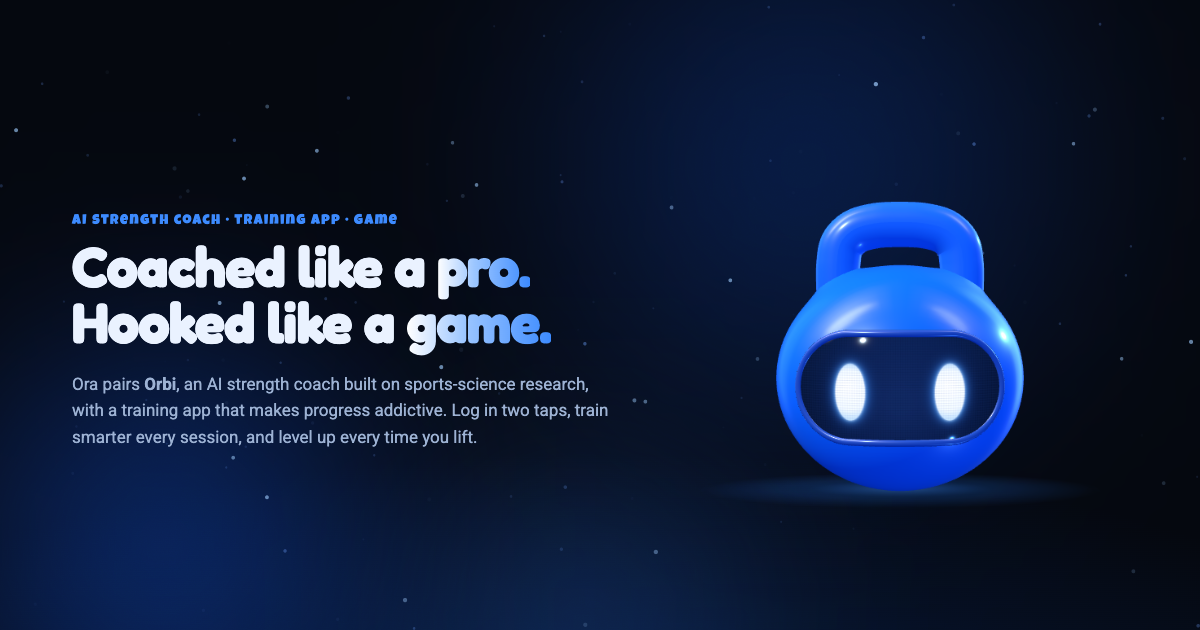
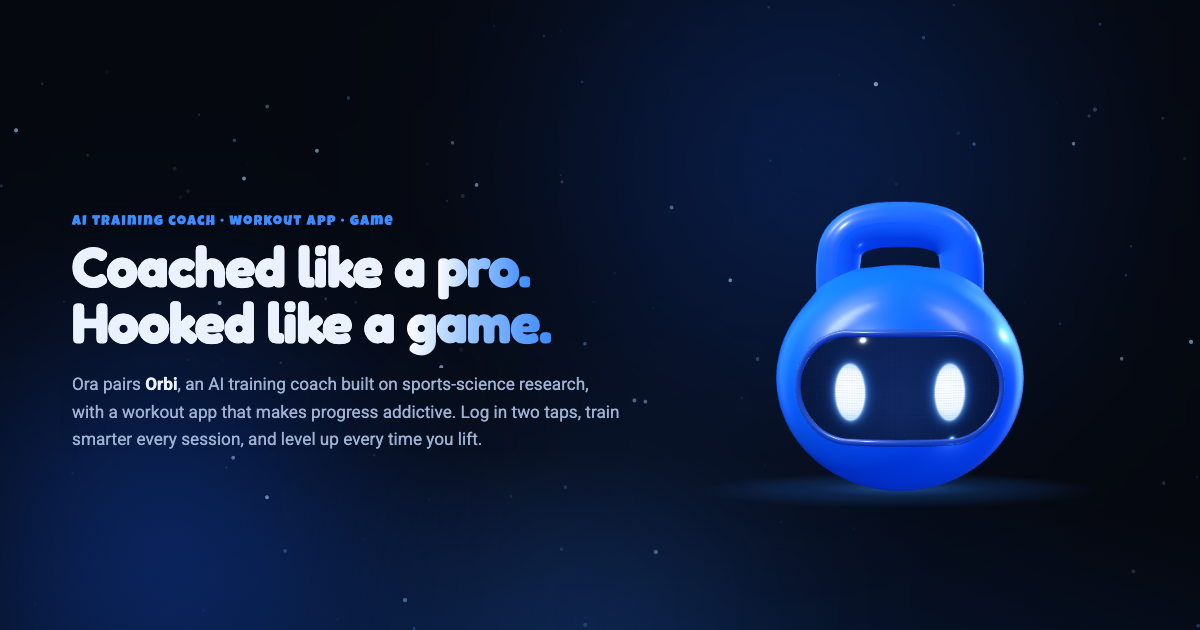
Call Orbi an AI training coach, not a strength coach (#26)
Orbi does more than strength coaching (Eric, 2026-10-30). Updates the page copy, metadata and the share image.

Changed region(s): [[0.0617, 0.6032, 0.5242, 0.7238], [0.0617, 0.3317, 0.3392, 0.3619]]

diff --git a/index.html b/index.html
@@ -1,21 +1,21 @@
 <!DOCTYPE html>
 <html lang="en"><head><meta charset="utf-8"><meta name="viewport" content="width=device-width,initial-scale=1">
 <title>Ora | Coached like a pro. Hooked like a game.</title>
-<meta name="description" content="Ora pairs Orbi, an AI strength coach built on sports-science research, with a lifting app that makes progress addictive: two-tap logging, XP, ranks, badges and friends. Free in private beta on iPhone.">
+<meta name="description" content="Ora pairs Orbi, an AI training coach built on sports-science research, with a lifting app that makes progress addictive: two-tap logging, XP, ranks, badges and friends. Free in private beta on iPhone.">
 <meta name="author" content="Ora">
 <meta name="robots" content="index, follow, max-image-preview:large">
 <link rel="canonical" href="https://oracoach.app/">
 <meta property="og:locale" content="en_US">
 <meta property="og:type" content="website">
 <meta property="og:title" content="Ora | Coached like a pro. Hooked like a game.">
-<meta property="og:description" content="Ora pairs Orbi, an AI strength coach built on sports-science research, with a lifting app that makes progress addictive: two-tap logging, XP, ranks, badges and friends. Free in private beta on iPhone.">
+<meta property="og:description" content="Ora pairs Orbi, an AI training coach built on sports-science research, with a lifting app that makes progress addictive: two-tap logging, XP, ranks, badges and friends. Free in private beta on iPhone.">
 <meta property="og:url" content="https://oracoach.app/">
 <meta property="og:site_name" content="Ora">
 <meta property="og:image" content="https://oracoach.app/assets/gen/og-home.png">
 <meta property="og:image:alt" content="Ora: Coached like a pro. Hooked like a game. With Orbi, the 3D kettlebell coach.">
 <meta name="twitter:card" content="summary_large_image">
 <meta name="twitter:title" content="Ora | Coached like a pro. Hooked like a game.">
-<meta name="twitter:description" content="Ora pairs Orbi, an AI strength coach built on sports-science research, with a lifting app that makes progress addictive: two-tap logging, XP, ranks, badges and friends. Free in private beta on iPhone.">
+<meta name="twitter:description" content="Ora pairs Orbi, an AI training coach built on sports-science research, with a lifting app that makes progress addictive: two-tap logging, XP, ranks, badges and friends. Free in private beta on iPhone.">
 <meta name="twitter:image" content="https://oracoach.app/assets/gen/og-home.png">
 <meta name="theme-color" content="#05080F">
 <!-- MEASUREMENT: visits are counted by /assets/stats.js (Ora's own, no
@@ -32,7 +32,7 @@
    "@id": "https://oracoach.app/#website",
    "url": "https://oracoach.app/",
    "name": "Ora",
-   "description": "Ora pairs Orbi, an AI strength coach built on sports-science research, with a lifting app that makes progress addictive: two-tap logging, XP, ranks, badges and friends. Free in private beta on iPhone.",
+   "description": "Ora pairs Orbi, an AI training coach built on sports-science research, with a lifting app that makes progress addictive: two-tap logging, XP, ranks, badges and friends. Free in private beta on iPhone.",
    "inLanguage": "en-US"
   },
   {
@@ -65,7 +65,7 @@
    "publisher": {
     "@id": "https://oracoach.app/#org"
    },
-   "description": "Ora pairs Orbi, an AI strength coach built on sports-science research, with a lifting app that makes progress addictive: two-tap logging, XP, ranks, badges and friends. Free in private beta on iPhone.",
+   "description": "Ora pairs Orbi, an AI training coach built on sports-science research, with a lifting app that makes progress addictive: two-tap logging, XP, ranks, badges and friends. Free in private beta on iPhone.",
    "offers": {
     "@type": "Offer",
     "price": "0",
@@ -444,9 +444,9 @@ nav a.home{display:block}a.login{position:fixed;top:28px;right:24px;z-index:21;p
 <div id="orbi" role="img" aria-label="Orbi, Ora's coach. Drag to spin him, tap to make him hop."></div>
 
 <section id="hero" data-hue="#0b2a6b"><div class="copy">
-  <div class="kicker">AI strength coach · training app · game</div>
+  <div class="kicker">AI training coach · workout app · game</div>
   <h1><span class="line"><span class="w">Coached</span> <span class="w">like</span> <span class="w">a</span> <span class="w grad">pro.</span></span><br><span class="line"><span class="w">Hooked</span> <span class="w">like</span> <span class="w">a</span> <span class="w grad">game.</span></span></h1>
-  <p class="lead">Ora pairs <b>Orbi</b>, an AI strength coach built on sports-science research, with a training app that makes progress addictive. Log in two taps, train smarter every session, and level up every time you lift.</p>
+  <p class="lead">Ora pairs <b>Orbi</b>, an AI training coach built on sports-science research, with a workout app that makes progress addictive. Log in two taps, train smarter every session, and level up every time you lift.</p>
   <div class="btns"><a class="cta" href="#join">Get early access</a><a class="cta ghost" href="#coach">Meet Orbi</a></div>
   <div class="micro">Free on iPhone during the beta · No credit card</div>
   <div class="stats">
@@ -565,7 +565,7 @@ nav a.home{display:block}a.login{position:fixed;top:28px;right:24px;z-index:21;p
       <ul><li>Two-tap logging and 1,700+ exercises</li><li>Progress, PRs and strength trends</li><li>XP, ranks, badges, titles and gear</li><li>Friends, check-ins and weekly ranks</li></ul></div>
     <div class="plan pro reveal"><div class="tag">Founding offer</div><div class="pn">Ora Pro <span>with Orbi</span></div>
       <div class="pp">$9.99<small>/mo, locked for life</small></div>
-      <ul><li><b>Everything in Free</b></li><li>Orbi, your AI strength coach</li><li>Smart programs that adapt to how training goes</li><li>Weekly check-ins and in-session adjustments</li><li>Founding Member badge</li></ul>
+      <ul><li><b>Everything in Free</b></li><li>Orbi, your AI training coach</li><li>Smart programs that adapt to how training goes</li><li>Weekly check-ins and in-session adjustments</li><li>Founding Member badge</li></ul>
       <div class="alt">Or $12.99/mo · $99/yr · 7-day free trial</div>
       <a class="cta" href="#join">Get early access</a></div>
   </div>
